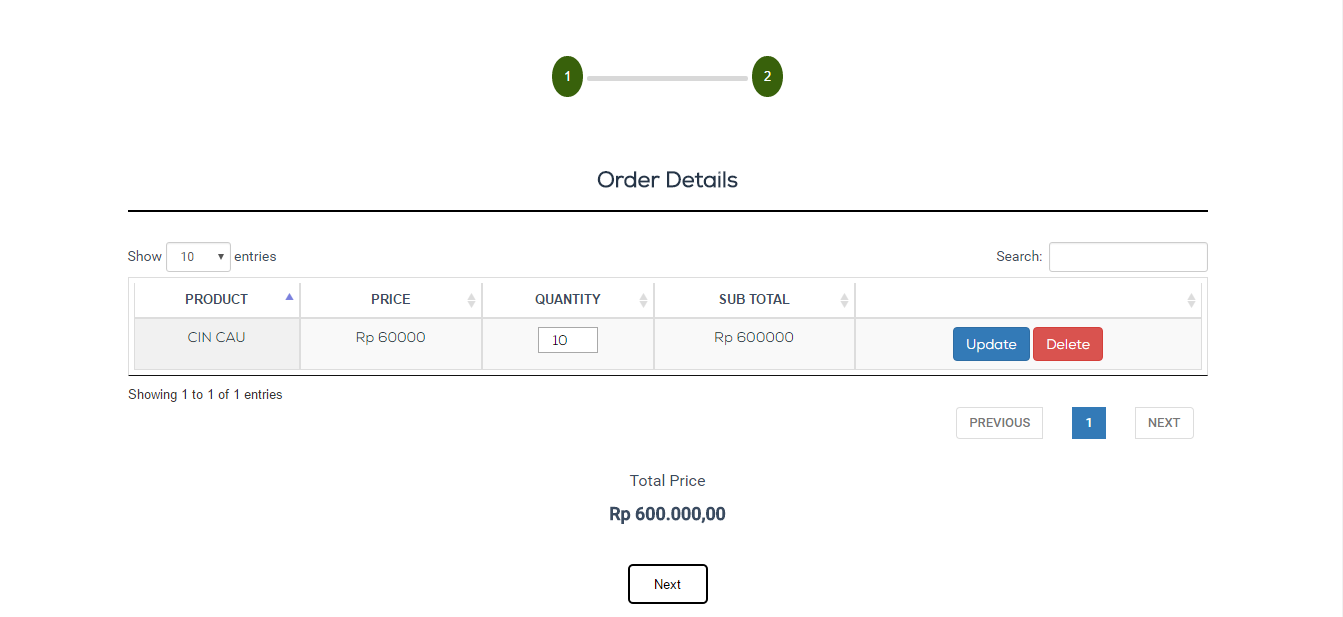
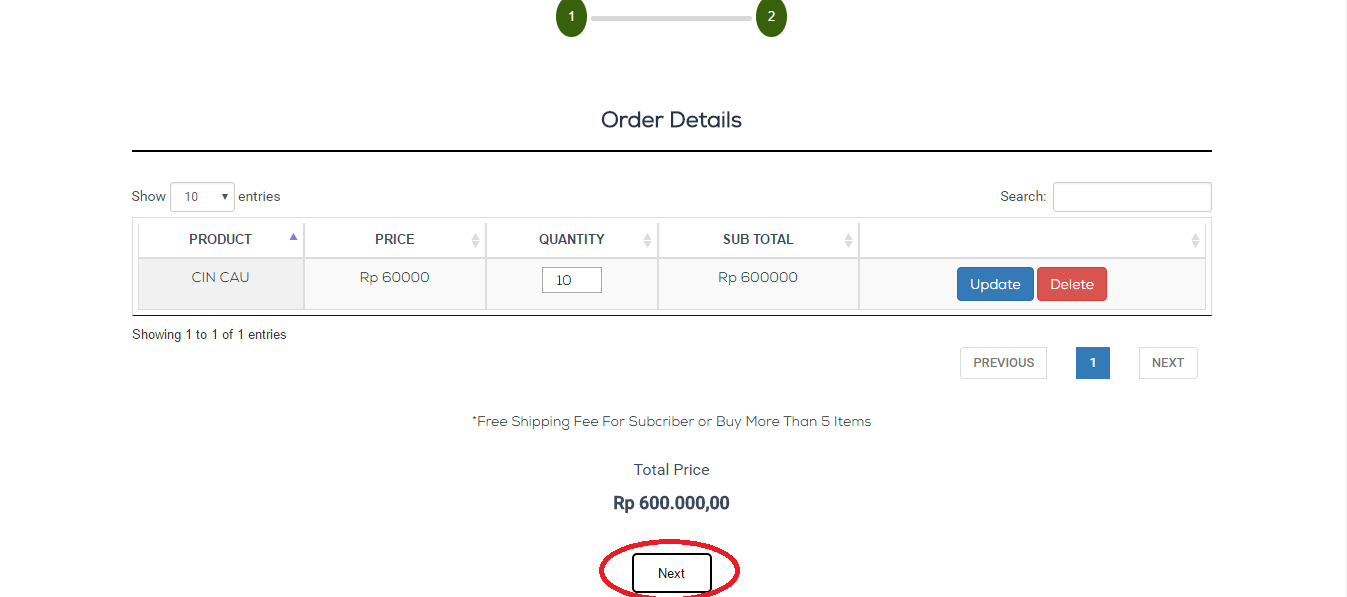
end?

diff --git a/app/Http/Controllers/TransactionController.php b/app/Http/Controllers/TransactionController.php
@@ -178,7 +178,14 @@ class TransactionController extends Controller
     $ship_city_id = filter_var($input['city'], FILTER_SANITIZE_STRING);
     $zipcode = filter_var($input['zipcode'], FILTER_SANITIZE_STRING);
     $shipping_date = filter_var($input['request_date'], FILTER_SANITIZE_STRING);
-    $shipping_fee = 10000;
+    if(Cart::instance('single')->count() >= 5)
+    {
+      $shipping_fee = 0;
+    }
+    else
+    {
+      $shipping_fee = 10000;
+    }
     $who = 'single';
     $total = Cart::instance('single')->total();
 
@@ -222,10 +229,11 @@ class TransactionController extends Controller
     }
 
     Cart::instance('single')->destroy();
+    $a = TxOrder::orderBy('order_id', 'desc')->first();
 
     if($input['payment'] == 0)
     {
-      return redirect('/banktransfer');
+      return redirect('/banktransfer/'.$a->order_id);
     }
     else if($input['payment'] == 1)
     {
@@ -234,6 +242,18 @@ class TransactionController extends Controller
 
   }
 
+  public function banktransfer($id)
+  {
+    $data['order'] = TxOrder::find($id);
+    $data['orderdetail'] = \DB::table('transaction__order_detail')
+                  ->select(\DB::raw('SUM(quantity) as quantity'))
+                  ->groupBy('order_id')
+                  ->get();
+    $data['contact'] = AboutUs::first();
+
+    return view('page.summary', $data);
+
+  }
 
   //=============================== CHECKOUT SUBSCRIBER 
 
@@ -406,7 +426,7 @@ class TransactionController extends Controller
     $zipcode = filter_var($input['zipcode'], FILTER_SANITIZE_STRING);
     $shipping_date = filter_var($input['request_date'], FILTER_SANITIZE_STRING);
     $week = filter_var($input['week'], FILTER_SANITIZE_STRING);
-    $shipping_fee = 10000;
+    $shipping_fee = 0;
     $who = 'subcriber';
     $total = Cart::instance('subcriber')->total();
 
@@ -453,7 +473,31 @@ class TransactionController extends Controller
       }
     }
     Cart::instance('subcriber')->destroy();
-    return redirect('/myorder');
+    
+
+    if($input['payment'] == 0)
+    {
+      return redirect('/summary/'.$a->group_id);
+    }
+    else if($input['payment'] == 1)
+    {
+      return redirect('/#');
+    }
+
+  }
+
+  public function summary($id)
+  {
+    $data['order'] = TxOrder::where('group_id', $id)->first();
+    $data['orderprice'] = \DB::table('transaction__order')
+                      ->select(\DB::raw('SUM(total) as total_price'))
+                      ->groupBy('group_id')
+                      ->having('group_id', '=', $id)
+                      ->get();
+                      
+    $data['contact'] = AboutUs::first();
+
+    return view('page.summary1', $data);
 
   }
 

diff --git a/resources/views/page/summary.blade.php b/resources/views/page/summary.blade.php
@@ -1,0 +1,52 @@
+  @extends('layout.main_layout')
+
+@section('content')
+<!-- Start checkout content -->
+<div class="container">
+  <div class="padding_outer">
+    <h2> CheckOut </h2>
+  
+    @if (Auth::guest())
+      <div class="clicktoregister">
+        <a href={{ URL('/register')}} class="testimonial_custom"> Please Log in or Click here to Register </a>
+      </div>
+    @else
+    <div class="stepper">
+      <div id="wrapper_progress">
+        
+      </div>
+            
+        <div id="wrapper">
+        <!-- ================================================================================================ -->
+        <!-- ================================================================================================ -->
+          <div id="">
+          <Center>
+            <p class='form_head'>Summary</p>
+              <label for="phone">Customer's Name</label> <br>
+              <input disabled type="text" class="form-control" name="name" value="{{ Auth::user()->name }}" style="text-align:center;"/>
+              <label for="address">Recipient's Address</label> <br>
+              <input disabled type="text" class="form-control" name="address" value="{{ $order->ship_address}}" style="text-align:center;"/>
+              <label for="Date">Shipping Date</label><br>
+              <input disabled type="text" class="form-control" name='request_date' value="{{$order->shipping_date}}" id="datepicker" autocomplete="off" /> 
+              <label for="payment">Payment</label>
+              <br>
+              <input disabled type="text" class="form-control" name="address" value="Bank Transfer" style="text-align:center;"/><br>  
+            <br>
+            <br>
+
+            <p class="plxLogin"><font size="3">Total Product Price : Rp {{number_format($order->total, 2, ',','.')}}</font> </p>
+            <p class="plxLogin"><font size="3">Shipping Fee  : Rp {{number_format($order->shipping_fee, 2, ',','.')}}</font> </p>
+            <hr>
+            <p class="plxLogin"><font size="4">Total  : Rp {{number_format($order->shipping_fee + $order->total, 2, ',','.')}}</font> </p>
+            
+            <p class="plxLogin"><font size="3">Please Transfer to <br>GOCGOD<br></font> </p>
+
+          </Center>
+          </div>
+          </div>
+    </div>
+    @endif
+  </div>
+</div>
+<!-- End checkout content -->
+@stop

diff --git a/resources/views/page/summary1.blade.php b/resources/views/page/summary1.blade.php
@@ -1,0 +1,50 @@
+  @extends('layout.main_layout')
+
+@section('content')
+<!-- Start checkout content -->
+<div class="container">
+  <div class="padding_outer">
+    <h2> CheckOut </h2>
+  
+    @if (Auth::guest())
+      <div class="clicktoregister">
+        <a href={{ URL('/register')}} class="testimonial_custom"> Please Log in or Click here to Register </a>
+      </div>
+    @else
+    <div class="stepper">
+      <div id="wrapper_progress">
+        
+      </div>
+            
+        <div id="wrapper">
+        <!-- ================================================================================================ -->
+        <!-- ================================================================================================ -->
+          <div id="">
+          <Center>
+            <p class='form_head'>Summary</p>
+              <label for="phone">Customer's Name</label> <br>
+              <input disabled type="text" class="form-control" name="name" value="{{ Auth::user()->name }}" style="text-align:center;"/>
+              <label for="address">Recipient's Address</label> <br>
+              <input disabled type="text" class="form-control" name="address" value="{{ $order->ship_address}}" style="text-align:center;"/>
+              <label for="payment">Payment</label>
+              <br>
+              <input disabled type="text" class="form-control" name="address" value="Bank Transfer" style="text-align:center;"/><br>  
+            <br>
+            <br>
+
+            <p class="plxLogin"><font size="3">Total Product Price : Rp {{number_format($orderprice[0]->total_price, 2, ',','.')}}</font> </p>
+            <p class="plxLogin"><font size="3">Shipping Fee  : Rp {{number_format(0, 2, ',','.')}}</font> </p>
+            <hr>
+            <p class="plxLogin"><font size="4">Total  : Rp {{number_format($orderprice[0]->total_price, 2, ',','.')}}</font> </p>
+            
+            <p class="plxLogin"><font size="3">Please Transfer to <br>GOCGOD<br></font> </p>
+
+          </Center>
+          </div>
+          </div>
+    </div>
+    @endif
+  </div>
+</div>
+<!-- End checkout content -->
+@stop

diff --git a/resources/views/page/howtobuysubcriber.blade.php b/resources/views/page/howtobuysubcriber.blade.php
@@ -1,18 +1,26 @@
 <br><br>
 <center>
-<h1>1</h1><h2>Click Checkout & Subcriber</h2>
+<h1>1</h1><h2>Click Checkout & Subscriber</h2>
 </center>
 <img src={{ URL::asset("assets/images/howtobuy/0001.png") }} class='figure-img img-fluid' alt='Image'>
-  <hr style="color:black;">
-  <center>
-<h1>2</h1><h2>Fill Quantity & Click Nextr</h2>
+<hr style="color:black;">
+<center>
+<h1>2</h1><h2>Fill Quantity & Click Next</h2>
 </center>
 <img src={{ URL::asset("assets/images/howtobuy/0002.png") }} class='figure-img img-fluid' alt='Image'>
 <img src={{ URL::asset("assets/images/howtobuy/0003.png") }} class='figure-img img-fluid' alt='Image'>
-  <hr style="color:black;">
-  <center>
-<h1>3</h1><h2>To See the Menus</h2>
+<hr style="color:black;">
+<center>
+<h1>3</h1><h2>Click Next</h2>
 </center>
-<img src={{ URL::asset("assets/images/howtobuy/03.png") }} class='figure-img img-fluid' alt='Image'>
-<br>
-<img src={{ URL::asset("assets/images/howtobuy/04.png") }} class='figure-img img-fluid' alt='Image'>
+<img src={{ URL::asset("assets/images/howtobuy/0004.png") }} class='figure-img img-fluid' alt='Image'>
+<hr style="color:black;">
+<center>
+<h1>4</h1><h2>Fill the Form & Click Submit </h2>
+</center>
+<img src={{ URL::asset("assets/images/howtobuy/0005.png") }} class='figure-img img-fluid' alt='Image'>
+<hr style="color:black;">
+<center>
+<h1>5</h1><h2>Summary and Payment</h2>
+</center>
+<img src={{ URL::asset("assets/images/howtobuy/0006.png") }} class='figure-img img-fluid' alt='Image'>

diff --git a/resources/views/page/howtobuysingle.blade.php b/resources/views/page/howtobuysingle.blade.php
@@ -1,6 +1,6 @@
 <br><br>
 <center>
-<h1>1</h1><h2>Choose Product from Menus</h2>
+<h1>1</h1><h2>Choose Product from Menu</h2>
 </center>
 <img src={{ URL::asset("assets/images/howtobuy/001.png") }} class='figure-img img-fluid' alt='Image'>
   <hr style="color:black;">
@@ -15,3 +15,18 @@
 <img src={{ URL::asset("assets/images/howtobuy/003.png") }} class='figure-img img-fluid' alt='Image'>
 <br>
 <img src={{ URL::asset("assets/images/howtobuy/004.png") }} class='figure-img img-fluid' alt='Image'>
+<hr style="color:black;">
+<center>
+<h1>4</h1><h2>Click Next</h2>
+</center>
+<img src={{ URL::asset("assets/images/howtobuy/005.png") }} class='figure-img img-fluid' alt='Image'>
+<hr style="color:black;">
+<center>
+<h1>5</h1><h2>Fill the Form & Click Submit</h2>
+</center>
+<img src={{ URL::asset("assets/images/howtobuy/006.png") }} class='figure-img img-fluid' alt='Image'>
+<hr style="color:black;">
+<center>
+<h1>6</h1><h2>Summary and Payment</h2>
+</center>
+<img src={{ URL::asset("assets/images/howtobuy/007.png") }} class='figure-img img-fluid' alt='Image'>

diff --git a/resources/views/page/howtobuy.blade.php b/resources/views/page/howtobuy.blade.php
@@ -12,7 +12,7 @@
 		      <ul class="nav nav-tabs" role="tablist">
 		        <li role="presentation" class="active"><a href="#" onclick="first()" aria-controls="home" role="tab" data-toggle="tab">First</a></li>
 		        <li role="presentation"><a href="#" onclick="single()" aria-controls="profile" role="tab" data-toggle="tab">Single Buyer</a></li>
-		      	<li role="presentation"><a href="#" onclick="subcriber()" aria-controls="profile" role="tab" data-toggle="tab">Subcriber Buyer</a></li>
+		      	<li role="presentation"><a href="#" onclick="subcriber()" aria-controls="profile" role="tab" data-toggle="tab">Subscriber Buyer</a></li>
 		      </ul>
 		    </div>
 
@@ -31,7 +31,7 @@
 			<br>
 	</div>
 </div>
-
+@push('scripts')
 <script>
 	function first()
 	{
@@ -71,11 +71,9 @@
 			}
 		});
 	}
-	
-	$(document).ready()
-	{
-	  first();
-	}
+	$(document).ready(function(){
+		first();
+	});
 </script>
-
+@endpush
 @stop

diff --git a/app/Http/routes.php b/app/Http/routes.php
@@ -38,12 +38,15 @@ Route::post('orderall', 'TransactionController@orderall');
 Route::post('addtocartsubcriber/', 'TransactionController@addtocartsubcriber');
 Route::post('updatecart/', 'TransactionController@updatecart');
 Route::post('deletecart/', 'TransactionController@deletecart');
+Route::get('summary/{id}', 'TransactionController@summary');
+
 
 Route::post('addtocart', 'TransactionController@addtocart');
 Route::get('checkout_singlebuyer', 'TransactionController@order_details_single');
 Route::post('updatecart_single/', 'TransactionController@updatecart_single');
 Route::post('deletecart_single/', 'TransactionController@deletecart_single');
 Route::post('order_single', 'TransactionController@order_single');
+Route::get('banktransfer/{id}', 'TransactionController@banktransfer');
 
 
 Route::get('profile/{id}', 'MemberController@showbalance');

diff --git a/resources/views/page/howtobuyfirst.blade.php b/resources/views/page/howtobuyfirst.blade.php
@@ -11,7 +11,7 @@
 <img src={{ URL::asset("assets/images/howtobuy/02.png") }} class='figure-img img-fluid' alt='Image'>
   <hr style="color:black;">
   <center>
-<h1>3</h1><h2>To See the Menus</h2>
+<h1>3</h1><h2>To See the Menu</h2>
 </center>
 <img src={{ URL::asset("assets/images/howtobuy/03.png") }} class='figure-img img-fluid' alt='Image'>
 <br>
